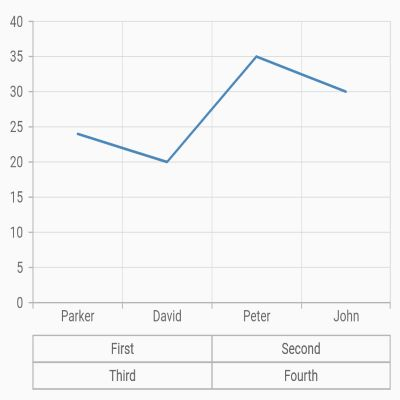
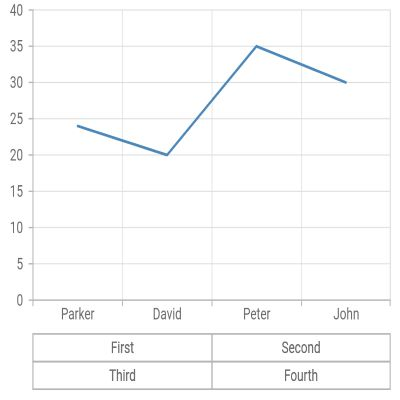
FLUT-5898-[feature][flutter]: Changed images with white background

diff --git a/Flutter/cartesian-charts/axis-customization.md b/Flutter/cartesian-charts/axis-customization.md
@@ -1245,8 +1245,8 @@ Here you need to specify the [`minimum`](https://pub.dev/documentation/syncfusio
 
 The `borderWidth` controls the visibility of the axis border. `borderColor` and `axisBorderType` properties of an axis are used to customize the color and border type respectively. `axisBorderType` can be customized by using below properties,
 
-* `AxisBorderType.rectangle` - Renders the border as a rectangle around an label.
-* `AxisBorderType.withoutTopAndBottom` - Renders the axis border without the top and bottom of the rectangle.
+* `AxisBorderType.rectangle` - Renders the border as a rectangle around a label.
+* `AxisBorderType.withoutTopAndBottom` - Renders the border without the top and bottom of a rectangle.
 
 {% highlight dart %}
 
@@ -1288,16 +1288,16 @@ The `borderWidth` controls the visibility of the axis border. `borderColor` and 
 
 ## Multi-level labels
 
-Multilevel labels can be added to a chart's axis by using the `multiLevelLabels` property. It contains a list of `ChartMultiLevelLabel` instances which contains the below properties as arguments,
+Multi-level labels can be added to a chart's axis by using the `multiLevelLabels` property. It contains a list of instances derived from the `ChartMultiLevelLabel` and `ChartMultiLevelLabel` contains the below properties as arguments,
 
-* `start` - This property represents the start value of an multilevel label.
-* `end`   - This property represents the end value of an multilevel label.
-* `text`  - This property represents the text which needs to be rendered for a multilevel label.
-* `level` - This property represents the hierarchical structure of a multi level label.
+* `start` - Represents the start value of an multi-level label.
+* `end`   - Represents the end value of an multi-level label.
+* `text`  - Represents the text which needs to be rendered for a multilevel label.
+* `level` - Represents the hierarchical structure of a multi level label.
 
 #### Multi-level labels in numeric axis
 
-`NumericMultiLevelLabel` is used to render multilevel labels in numeric axis.
+`NumericMultiLevelLabel` is used to render multi-level labels in numeric axis.
 
 {% highlight dart %}
 
@@ -1345,7 +1345,7 @@ Multilevel labels can be added to a chart's axis by using the `multiLevelLabels`
 
 #### Multi-level labels in category axis
 
-`CategoricalMultiLevelLabel` is used to render multilevel labels in category axis.
+`CategoricalMultiLevelLabel` is used to render multi-level labels in category axis.
 
 {% highlight dart %}
 
@@ -1355,7 +1355,7 @@ Multilevel labels can be added to a chart's axis by using the `multiLevelLabels`
         ChartData('Parker', 24),
         ChartData('David', 20),
         ChartData('Peter', 35),
-        ChartData('John', 30),
+        ChartData('John', 30)
       ];
       return Scaffold(
         body: SfCartesianChart(
@@ -1391,7 +1391,7 @@ Multilevel labels can be added to a chart's axis by using the `multiLevelLabels`
 
 #### Multi-level labels in date time axis
 
-`DateTimeMultiLevelLabel` is used to render multilevel labels in date time axis.
+`DateTimeMultiLevelLabel` is used to render multi-level labels in date time axis.
 
 {% highlight dart %}
 
@@ -1448,11 +1448,11 @@ Multilevel labels can be added to a chart's axis by using the `multiLevelLabels`
 
 {% endhighlight %}
 
-![Multi-level labels](images/axis-customization/datetime_multi_level_labels.jpg)
+![Multi-level labels](images/axis-customization/datetime_multi_level_label.jpg)
 
 #### Multi-level labels in date time category axis
 
-`DateTimeCategoricalMultiLevelLabel` is used to render multilevel labels in date time category axis.
+`DateTimeCategoricalMultiLevelLabel` is used to render multi-level labels in date time category axis.
 
 {% highlight dart %}
 
@@ -1468,7 +1468,6 @@ Multilevel labels can be added to a chart's axis by using the `multiLevelLabels`
         body: SfCartesianChart(
           primaryXAxis:
             DateTimeCategoryAxis(
-              edgeLabelPlacement: EdgeLabelPlacement.shift,
               multiLevelLabels: <DateTimeCategoricalMultiLevelLabel>[
                 DateTimeCategoricalMultiLevelLabel(
                     start: DateTime(2010,1,1), 
@@ -1507,11 +1506,11 @@ Multilevel labels can be added to a chart's axis by using the `multiLevelLabels`
 
 {% endhighlight %}
 
-![Multi-level labels](images/axis-customization/datetime_category_multi_level_labels.jpg)
+![Multi-level labels](images/axis-customization/datetime_category_multi_level_label.jpg)
 
 #### Multi-level labels in logarithmic axis
 
-`LogarithmicMultiLevelLabel` is used to render multilevel labels in logarithmic axis.
+`LogarithmicMultiLevelLabel` is used to render multi-level labels in logarithmic axis.
 
 {% highlight dart %}
 
@@ -1560,28 +1559,21 @@ Multilevel labels can be added to a chart's axis by using the `multiLevelLabels`
 
 {% endhighlight %}
 
-![Multi-level labels](images/axis-customization/logarithmic_multi_level_labels.jpg)
+![Multi-level labels](images/axis-customization/logarithmic_multi_level_label.jpg)
 
-#### Multi-level label and border customization
+#### Multi-level label customization
 
-By using the below properties as arguments in `multiLevelLabelStyle` the multi level label border and multi level label text can be customized.
+By using the below properties as arguments in `multiLevelLabelStyle` the multi-level label border and multi-level label text can be customized.
 
-* `borderColor` - Used to customize the border color of multilevel labels.
-* `borderWidth` - Used to customize the border width of multilevel labels.
-* `textStyle`  - Used to customize the font of multilevel label. The multilevel label can be customized using following properties,
+##### Multi-level label text customization
 
-* `color` - used to change the color of the multilevel label.
-* `fontFamily` - Used to change the font family for the multilevel label.
-* `fontStyle` - Used to change the font style for the multilevel label.
-* `fontWeight` - Used to change the font weight for the multilevel label.
-* `fontSize` - Used to change the font size for the multilevel label.
+* `textStyle`  - Used to customize the font of multi-level label.It label can be customized using following properties,
 
-* `borderType` - Used to customize the border type of multilevel labels. It can be customized by using below properties,
-
-`MultiLevelBorderType.rectangle` - Renders the multilevel label border as rectangle.
-`MultiLevelBorderType.withoutTopAndBottom` - Renders the multilevel label border as rectangle without it's top and bottom.
-`MultiLevelBorderType.squareBrace` - Renders the multilevel label border as square braces.
-`MultiLevelBorderType.curlyBrace` - Renders the multilevel label border as curly braces.
+* `color` - Used to change the color of the multi-level label.
+* `fontFamily` - Used to change the font family for the multi-level label.
+* `fontStyle` - Used to change the font style for the multi-level label.
+* `fontWeight` - Used to change the font weight for the multi-level label.
+* `fontSize` - Used to change the font size for the multi-level label.
 
 {% highlight dart %}
 
@@ -1600,9 +1592,6 @@ By using the below properties as arguments in `multiLevelLabelStyle` the multi l
         body: SfCartesianChart(
           primaryXAxis: NumericAxis(
             multiLevelLabelStyle: MultiLevelLabelStyle(
-              borderColor: Colors.blue,
-              borderWidth: 2.0,
-              borderType: MultiLevelBorderType.curlyBrace,
               textStyle: TextStyle(
                   fontSize: 14,
                   fontWeight: FontWeight.bold,
@@ -1634,7 +1623,67 @@ By using the below properties as arguments in `multiLevelLabelStyle` the multi l
 
 {% endhighlight %}
 
-![Multi-level labels](images/axis-customization/multi_level_border_text_customization.jpg)
+![Multi-level labels](images/axis-customization/multi_level_label_text_customization.jpg)
+
+##### Multi-level label border customization
+
+* `borderColor` - Used to customize the border color of multi-level labels.
+* `borderWidth` - Used to customize the border width of multi-level labels.
+* `borderType` - Used to customize the border type of multi-level labels. It can be customized by using below properties,
+
+* `MultiLevelBorderType.rectangle` - Renders the multi-level label border as rectangle.
+* `MultiLevelBorderType.withoutTopAndBottom` - Renders the multi-level label border as rectangle without it's top and bottom.
+* `MultiLevelBorderType.squareBrace` - Renders the multi-level label border as square braces.
+* `MultiLevelBorderType.curlyBrace` - Renders the multi-level label border as curly braces.
+
+{% highlight dart %}
+
+    @override
+    Widget build(BuildContext context) {
+      final List<ChartData> chartData = <ChartData>[
+        ChartData(1, 24),
+        ChartData(2, 20),
+        ChartData(3, 35),
+        ChartData(4, 27),
+        ChartData(5, 30),
+        ChartData(6, 41),
+        ChartData(7, 26)
+      ];
+      return Scaffold(
+        body: SfCartesianChart(
+          primaryXAxis: NumericAxis(
+            multiLevelLabelStyle: MultiLevelLabelStyle(
+              borderColor: Colors.blue,
+              borderWidth: 2.0,
+              borderType: MultiLevelBorderType.curlyBrace,
+            ),
+            multiLevelLabels: const <NumericMultiLevelLabel>[
+              NumericMultiLevelLabel(start: 1, end: 4, text: 'First', level: 0),
+              NumericMultiLevelLabel(start: 4, end: 7, text: 'Second', level: 0),
+              NumericMultiLevelLabel(start: 1, end: 4, text: 'Third', level: 1),
+              NumericMultiLevelLabel(start: 4, end: 7, text: 'Fourth', level: 1)
+            ]
+          ),
+           series: <ChartSeries<ChartData, int>>[
+             LineSeries<ChartData, int>(
+               dataSource: chartData,
+               xValueMapper: (ChartData data, _) => data.x,
+               yValueMapper: (ChartData data, _) => data.y,
+            )
+           ]
+        )
+      );
+    }
+
+    class ChartData {
+     ChartData(this.x, this.y);
+     final int x;
+     final int y;
+    }
+
+{% endhighlight %}
+
+![Multi-level labels](images/axis-customization/multi_level_label_border_customization.jpg)
 
 ## See Also
 

diff --git a/Flutter/cartesian-charts/callbacks.md b/Flutter/cartesian-charts/callbacks.md
@@ -152,8 +152,8 @@ Triggers while rendering the multi level labels. Text and text styles such as co
                 details.textStyle);
             },
             multiLevelLabels: const <NumericMultiLevelLabel>[
-              NumericMultiLevelLabel(start: 1, end: 4, text: 'First', level: 0),
-              NumericMultiLevelLabel(start: 4, end: 7, text: 'Second', level: 0),
+              NumericMultiLevelLabel(start: 1, end: 4, text: 'First'),
+              NumericMultiLevelLabel(start: 4, end: 7, text: 'Second'),
               NumericMultiLevelLabel(start: 1, end: 4, text: 'Third', level: 1),
               NumericMultiLevelLabel(start: 4, end: 7, text: 'Fourth', level: 1),
             ]
